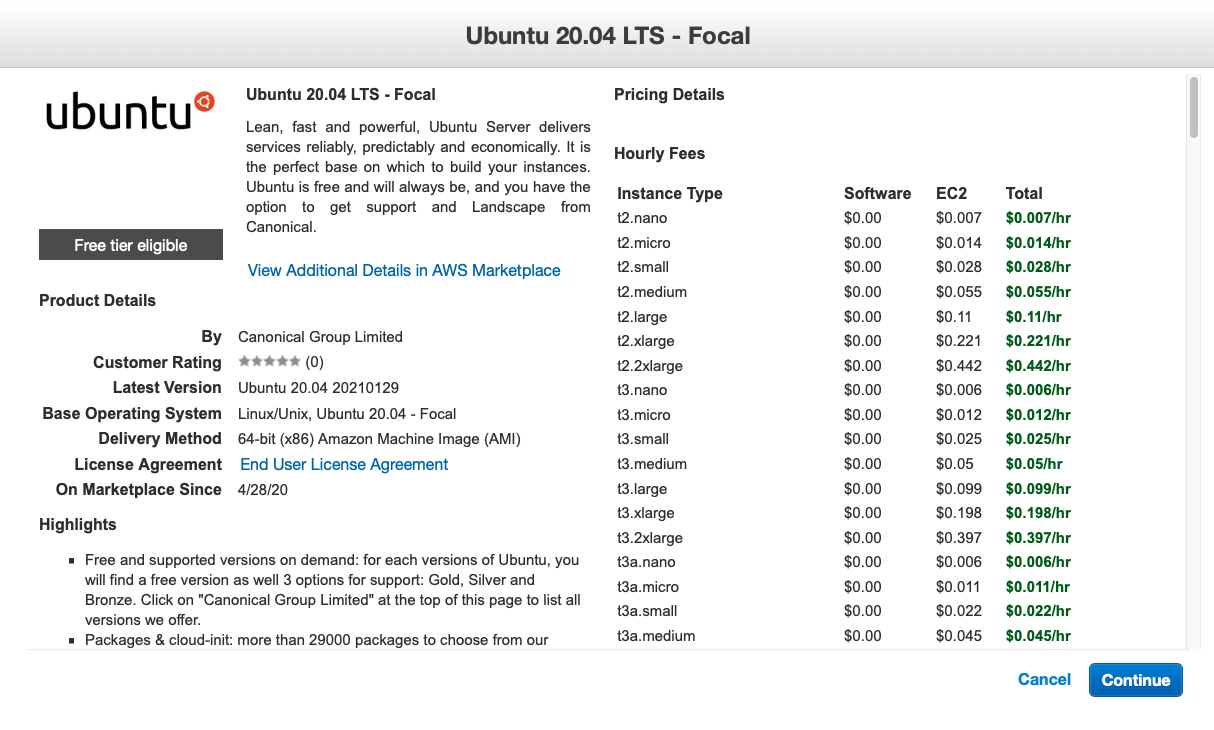
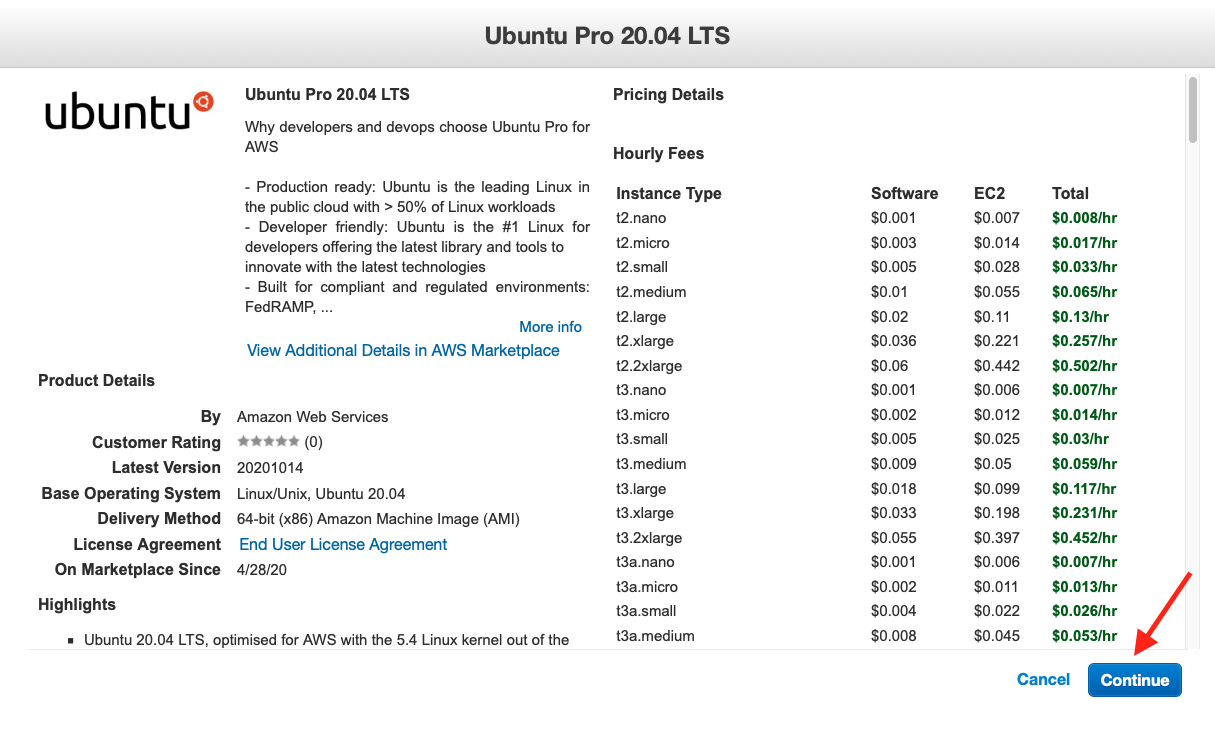
updated images for ubuntu pro and text edits

diff --git a/docs/Bioinformatics-Skills/Introduction_to_Amazon_Web_Services/introtoaws3.md b/docs/Bioinformatics-Skills/Introduction_to_Amazon_Web_Services/introtoaws3.md
@@ -3,7 +3,7 @@ layout: page
 title: Setting up an AWS instance
 ---
 
-To start, we will learn how to set-up Ubuntu 20.04 Pro LTS open source software operating system. Ubuntu 20.04 Pro LTS is one of the programs offered in the Amazon Free Tier as well as one of the most popular open source operating systems.
+In this lesson, we will learn to set-up an instance with Ubuntu, an open source software operating system and part of the Amazon Free Tier program.
 
 Follow along with these steps and/or watch our [walk-through tutorial](./introtoaws2.md) to get started!
 
@@ -40,7 +40,7 @@ Click on <span class="highlight_txt">EC2</span>:
 
 !!! Note "Amazon EC2"
 
-         Amazon Elastic Cloud Computing (Amazon EC2) features virtual computing environments called instances. These instances can vary in configurations of CPU, memory, storage, networking capacity. For the purposes of future tutorials, we will launch Ubuntu 20.04 Pro LTS. LTS releases are the ‘enterprise grade’ releases of Ubuntu and are utilized the most.
+         Amazon Elastic Cloud Computing (Amazon EC2) features virtual computing environments called instances. These instances can vary in configurations of CPU, memory, storage, networking capacity. For the purposes of future tutorials, we will launch `Ubuntu 20.04 Pro LTS` which is an enterprise grade releases of Ubuntu.
 
 Click on <span class="highlight_txt">Launch Instance</span>:
 
@@ -55,19 +55,24 @@ Select <span class="highlight_txt">AWS Marketplace</span> on the left hand side 
 
 ![AWS Marketplace](./images-aws/aws_6.png "AWS marketplace button")
 
-Type `Ubuntu 20.04` in the search bar. Choose `Ubuntu 20.04 LTS - Focal` by clicking <span class="highlight_txt">Select</span>:
+Type `Ubuntu Pro` in the search bar. Choose `Ubuntu Pro 20.04 LTS` by clicking <span class="highlight_txt">Select</span>:
 
 ![AMI](./images-aws/aws_7.png "AWS Ubuntu AMI")
 
-Click <span class="highlight_txt">Continue</span>
+!!! info "Ubuntu 20.04 AMI"
 
-![Ubuntu Pro](./images-aws/aws_9.PNG "Ubuntu Pro information")
+     `Ubuntu 20.04` was released in 2020 and is the latest version. This is a **Long Term Support (LTS)** release which means it will be equipped with software updates and security fixes. Since it is a `Pro` version the support will last for ten years until 2030.   
+
+
+Click <span class="highlight_txt">Continue</span> on the popup window:
+
+![Ubuntu Focal](./images-aws/aws_9.png "Ubuntu Focal information")
 
 ### Step 4: Choose an instance type
 
 Amazon EC2 provides a wide selection of instance types optimized to fit different use cases. Instances are virtual servers that can run applications. They have varying combinations of CPU, memory, storage, and networking capacity, and give you the flexibility to choose the appropriate mix of resources for your applications. [Learn more about instance types and how they can meet your computing needs](https://aws.amazon.com/ec2/instance-types/).
 
-Select the row with `t2.micro` which is free tier eligible:
+For this tutorial we will select the row with `t2.micro` which is free tier eligible:
 
 ![t2.micro](./images-aws/aws_8.png "t2 micro instance type")
 
@@ -105,7 +110,7 @@ The last tab in setup is **Review** which summarizes all the selected configurat
 
 ![launch instance](./images-aws/aws_launch.png "launch the instance")
 
-Choose the <span class="highlight_txt">Create a new key pair</span> option from the drop down menu. You can type any name under **Key pair name**. In this tutorial we are naming it `amazon.pem`. Click <span class="highlight_txt">Download Key Pair</span> to obtain the `.pem` file to your local machine. The default location for saving files on a Mac is the Downloads folder -- that's where your key pair can be found. Next time you launch an instance, you can reuse the key pair you just generated.
+Choose the <span class="highlight_txt">Create a new key pair</span> option from the drop down menu. You can type any name under **Key pair name**. In this tutorial we are naming it `amazon.pem`. Click <span class="highlight_txt">Download Key Pair</span> to obtain the `.pem` file to your local machine. You can access the `.pem` file from the `Downloads` folder which is typically the default location for saving files. Next time you launch an instance, you can reuse the key pair you just generated.
 
 If you have a previously generated key pair, you can reuse it to launch an instance using <span class="highlight_txt">Choose an existing key pair</span> option.
 

diff --git a/docs/Bioinformatics-Skills/Introduction_to_Amazon_Web_Services/introtoaws4.md b/docs/Bioinformatics-Skills/Introduction_to_Amazon_Web_Services/introtoaws4.md
@@ -92,7 +92,7 @@ hide:
 
     Ok, so you've created a running computer. How do you get to it?
 
-    The main thing you'll need is the network name of your new computer. To retrieve this, go to the [AWS instance view](https://us-west-1.console.aws.amazon.com/ec2/v2/home?region=us-west-1#Instances:sort=instanceId), click on the instance, and find the "Public DNS". This is the public name of your computer on the internet.
+    The main thing you'll need is the network name of your new computer. To retrieve this, go to the [AWS instance view](https://us-west-1.console.aws.amazon.com/ec2/v2/home?region=us-west-1#Instances:sort=instanceId), click on the instance, and find the **Public DNS** under the <span class="highlight_txt">Details</span> tab. This is the public name of your computer on the internet.
 
     ## Step 1: Locate private key
 
